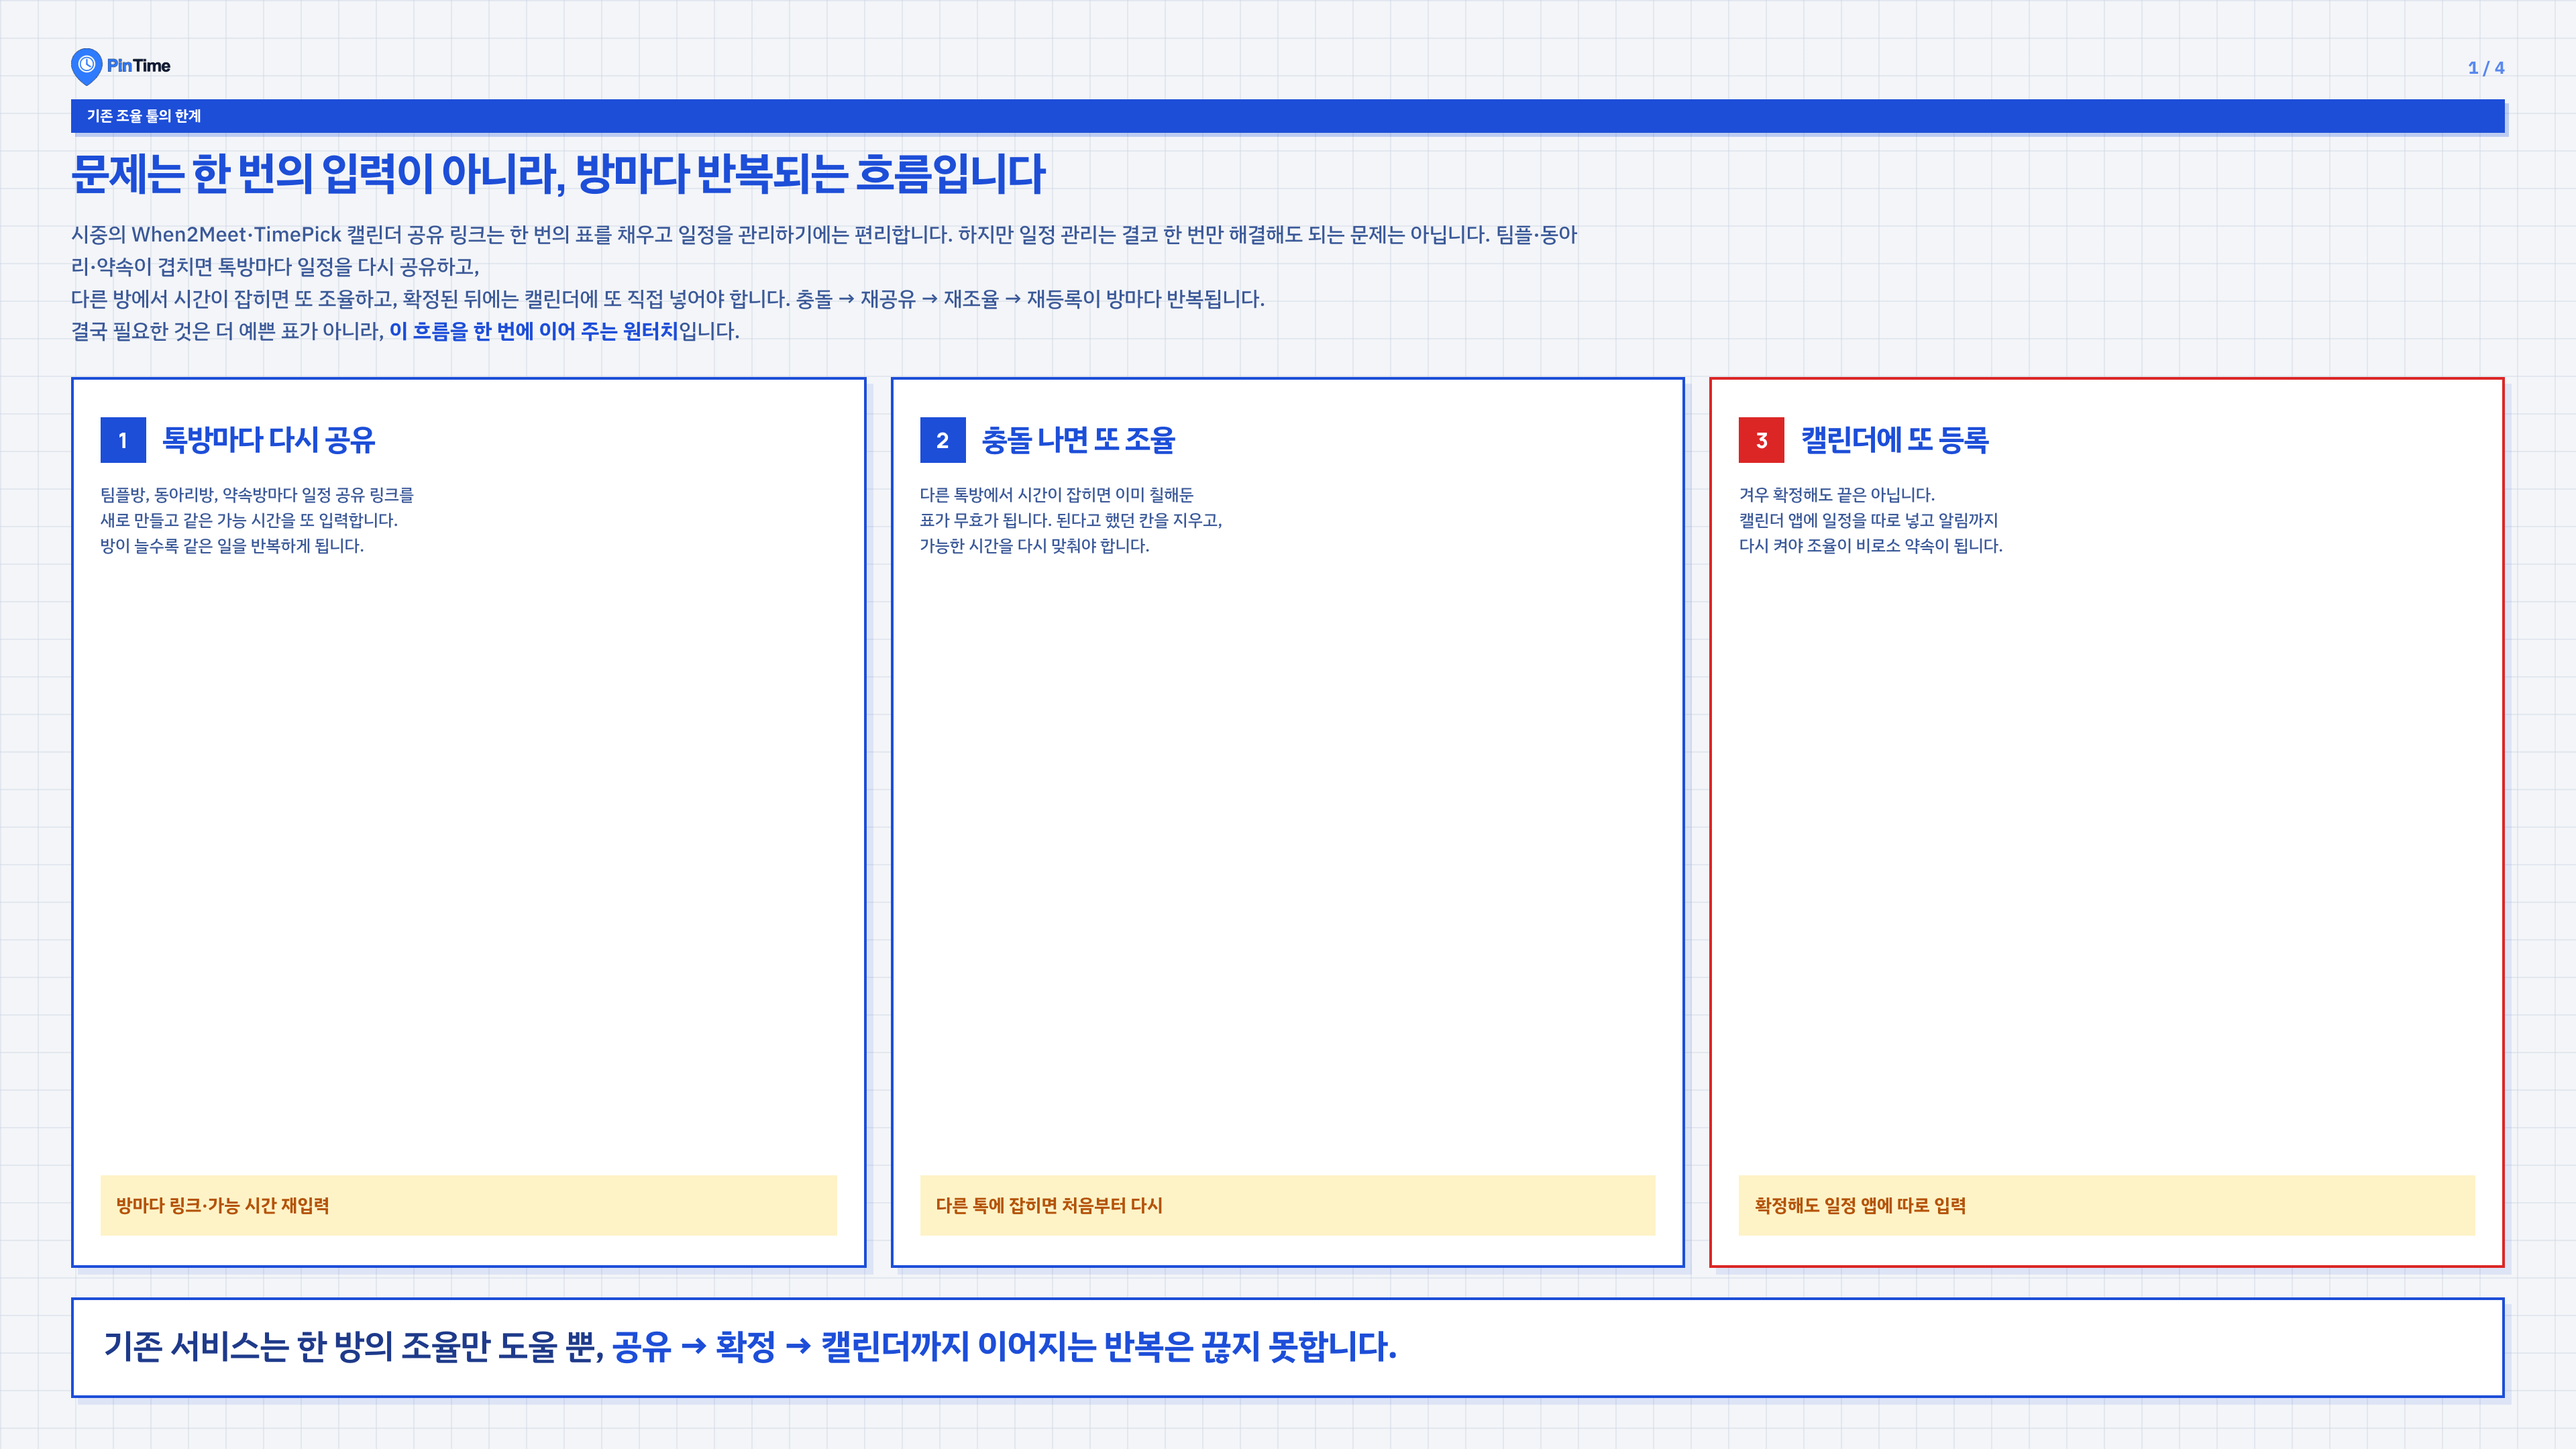
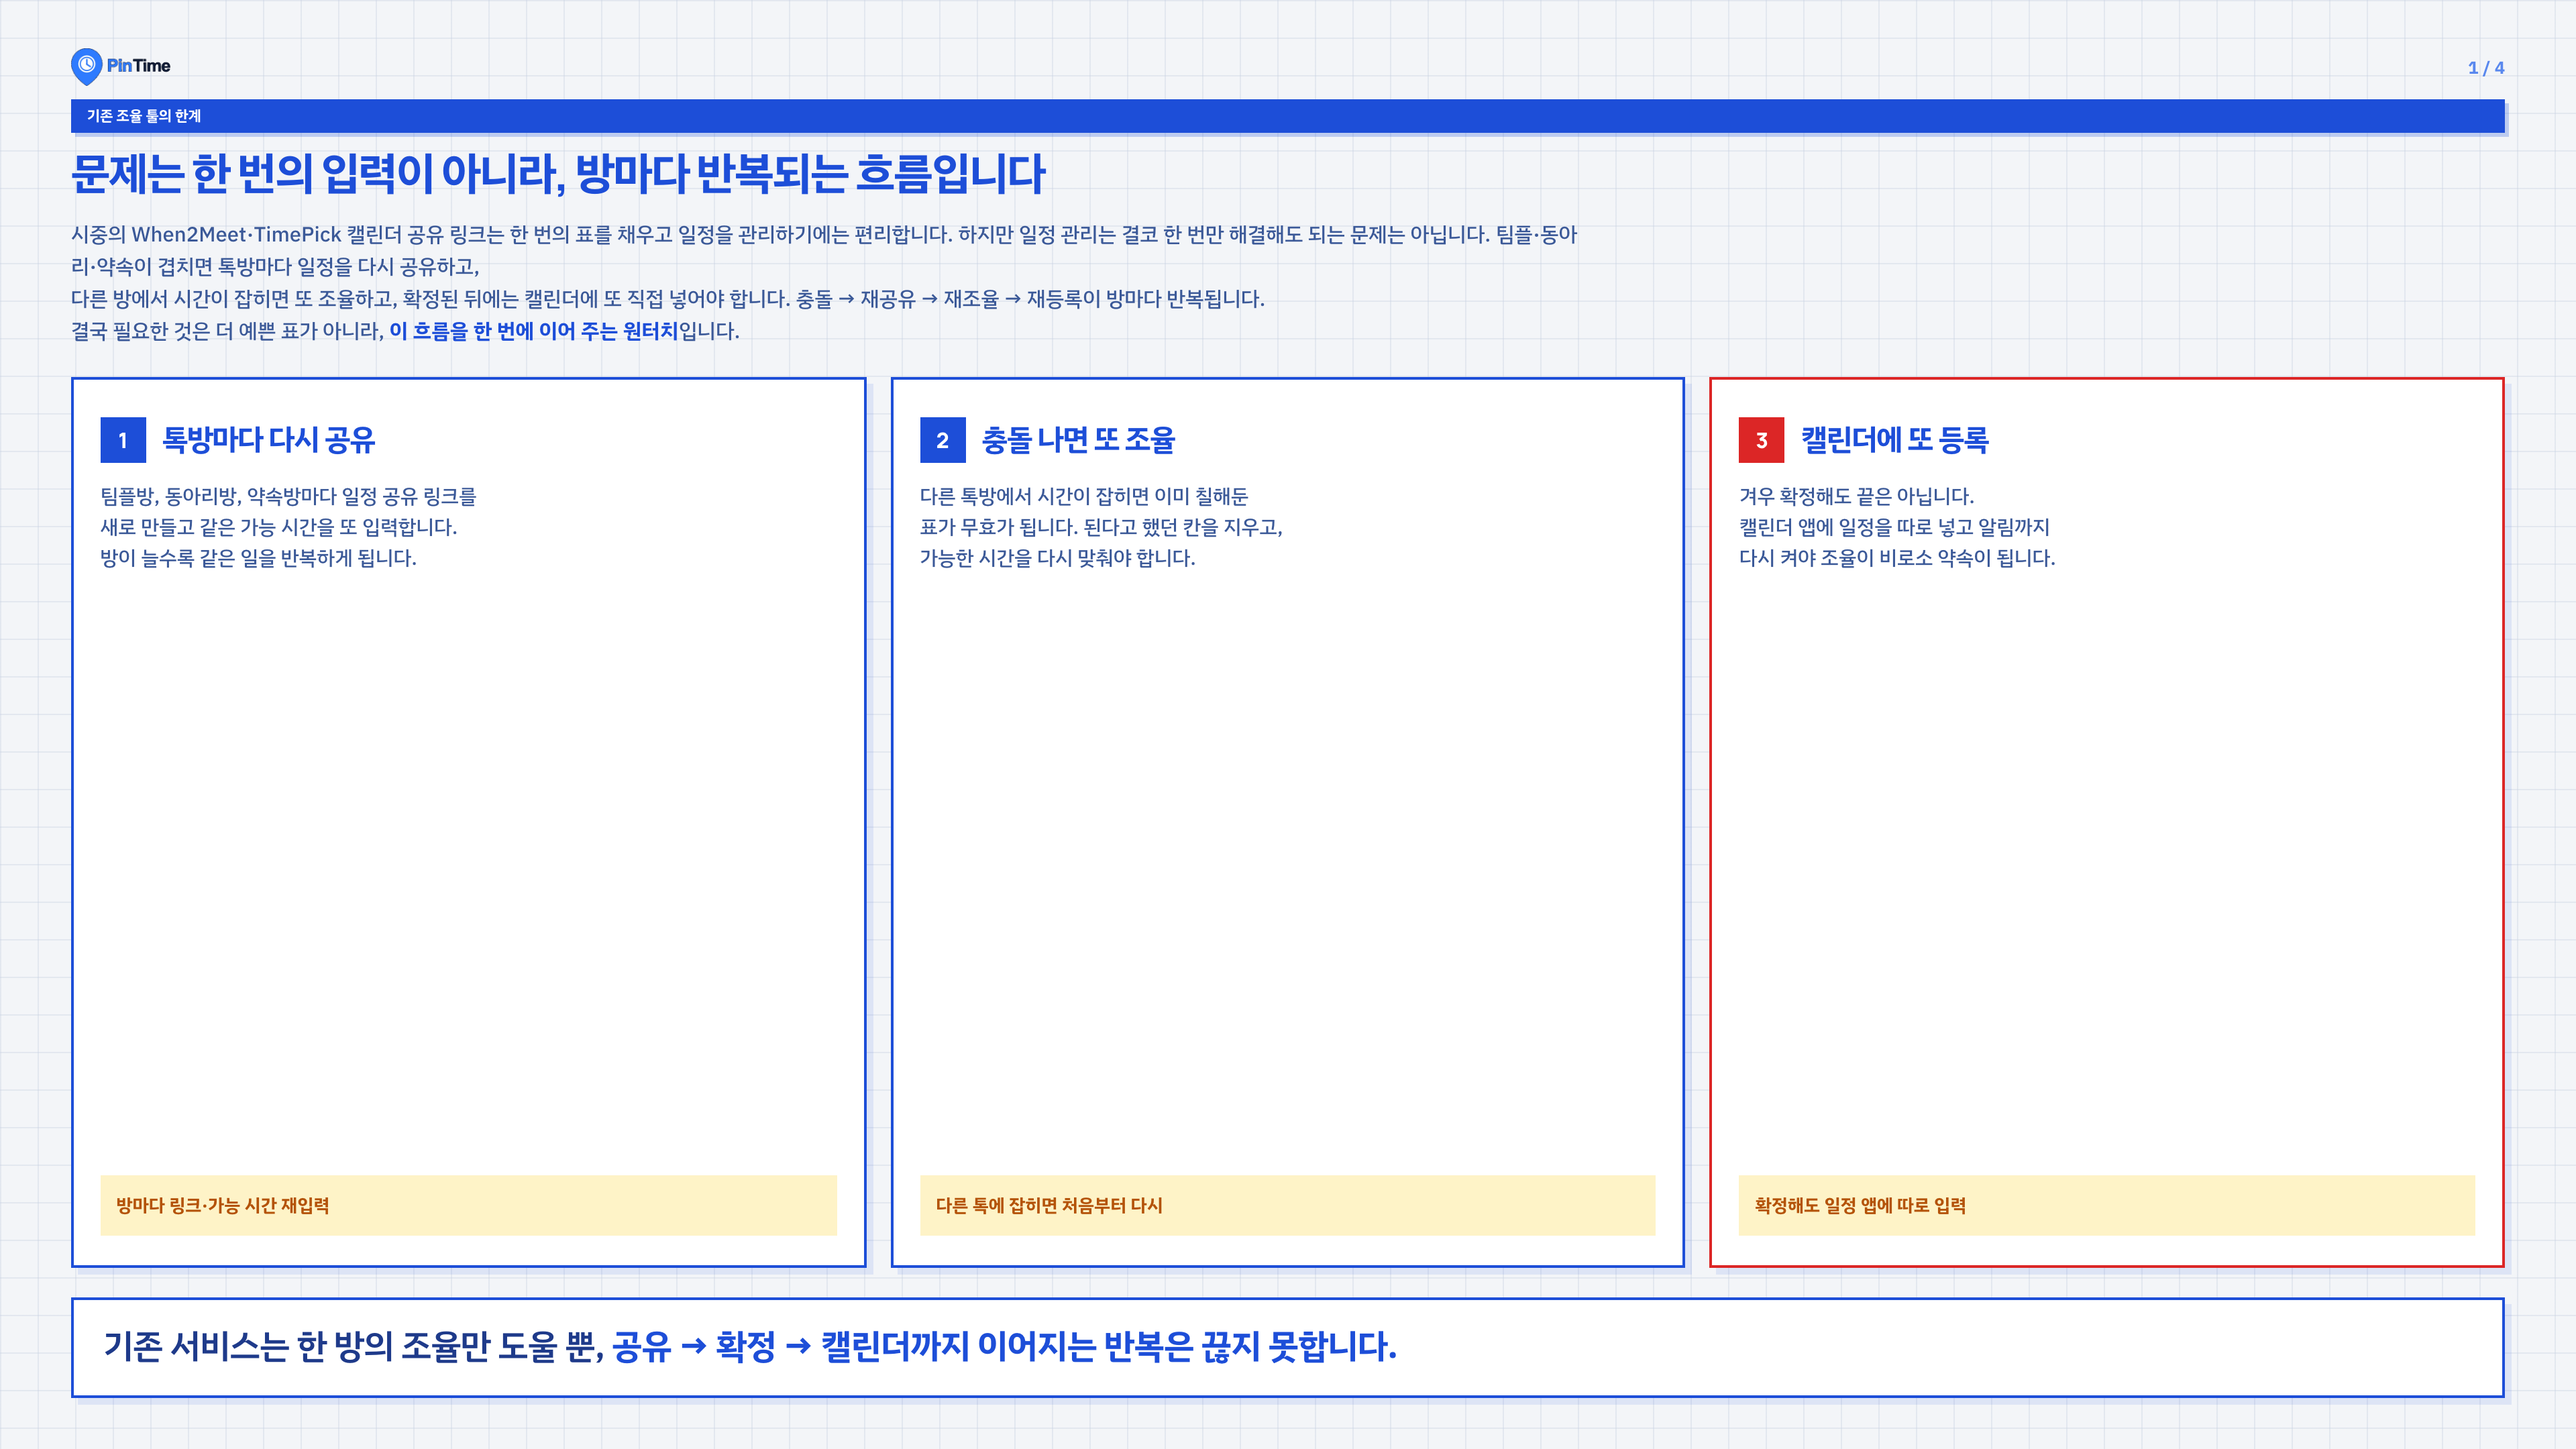
Enlarge problem card detail text while keeping three lines.

Changed region(s): [[0.3438, 0.3412, 0.5, 0.4032], [0.0312, 0.3412, 0.1875, 0.4032], [0.6562, 0.3412, 0.7812, 0.4032]]

diff --git a/public/pitch.html b/public/pitch.html
@@ -456,7 +456,7 @@
         margin: 0;
         flex: 1;
         min-width: 0;
-        font-size: 12.5px;
+        font-size: 15px;
         line-height: 1.55;
         color: var(--muted-solid);
         font-weight: 500;
